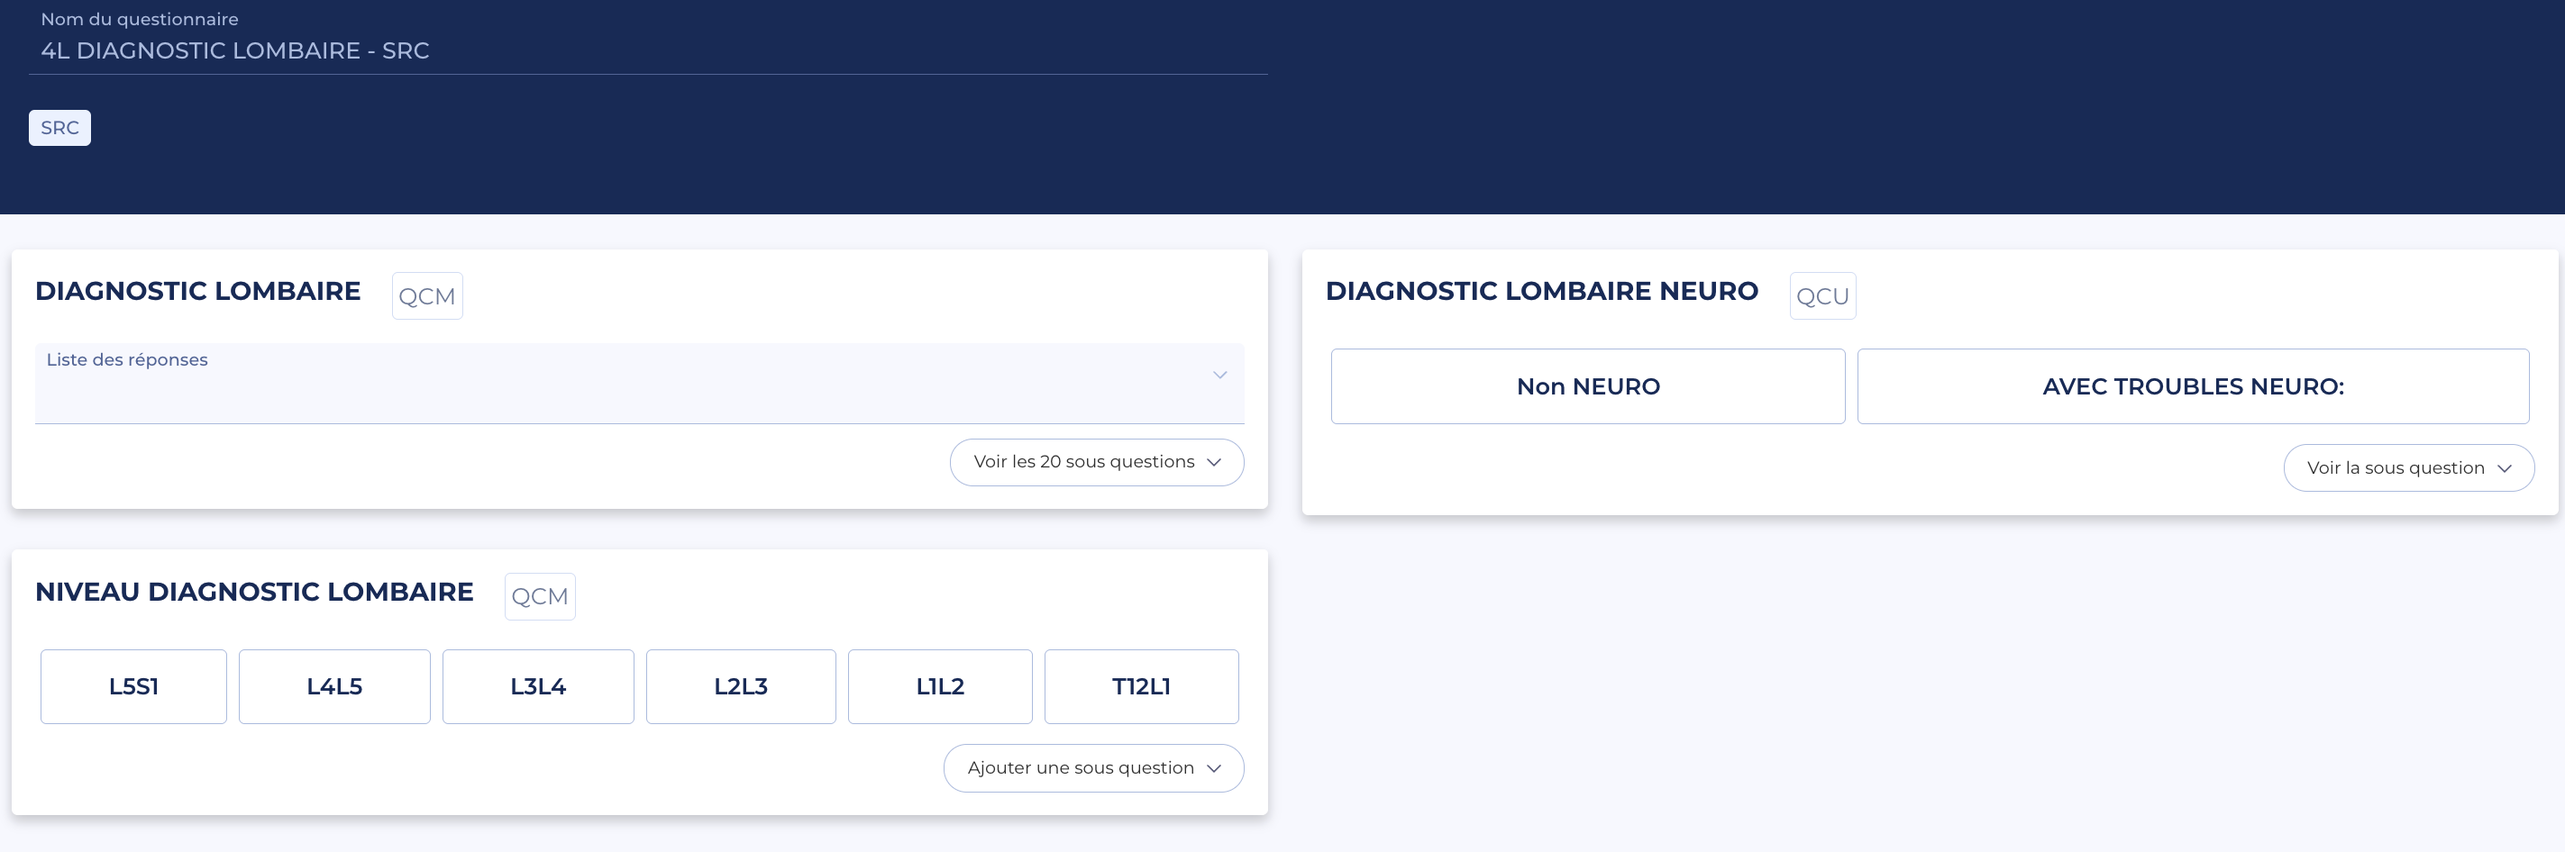
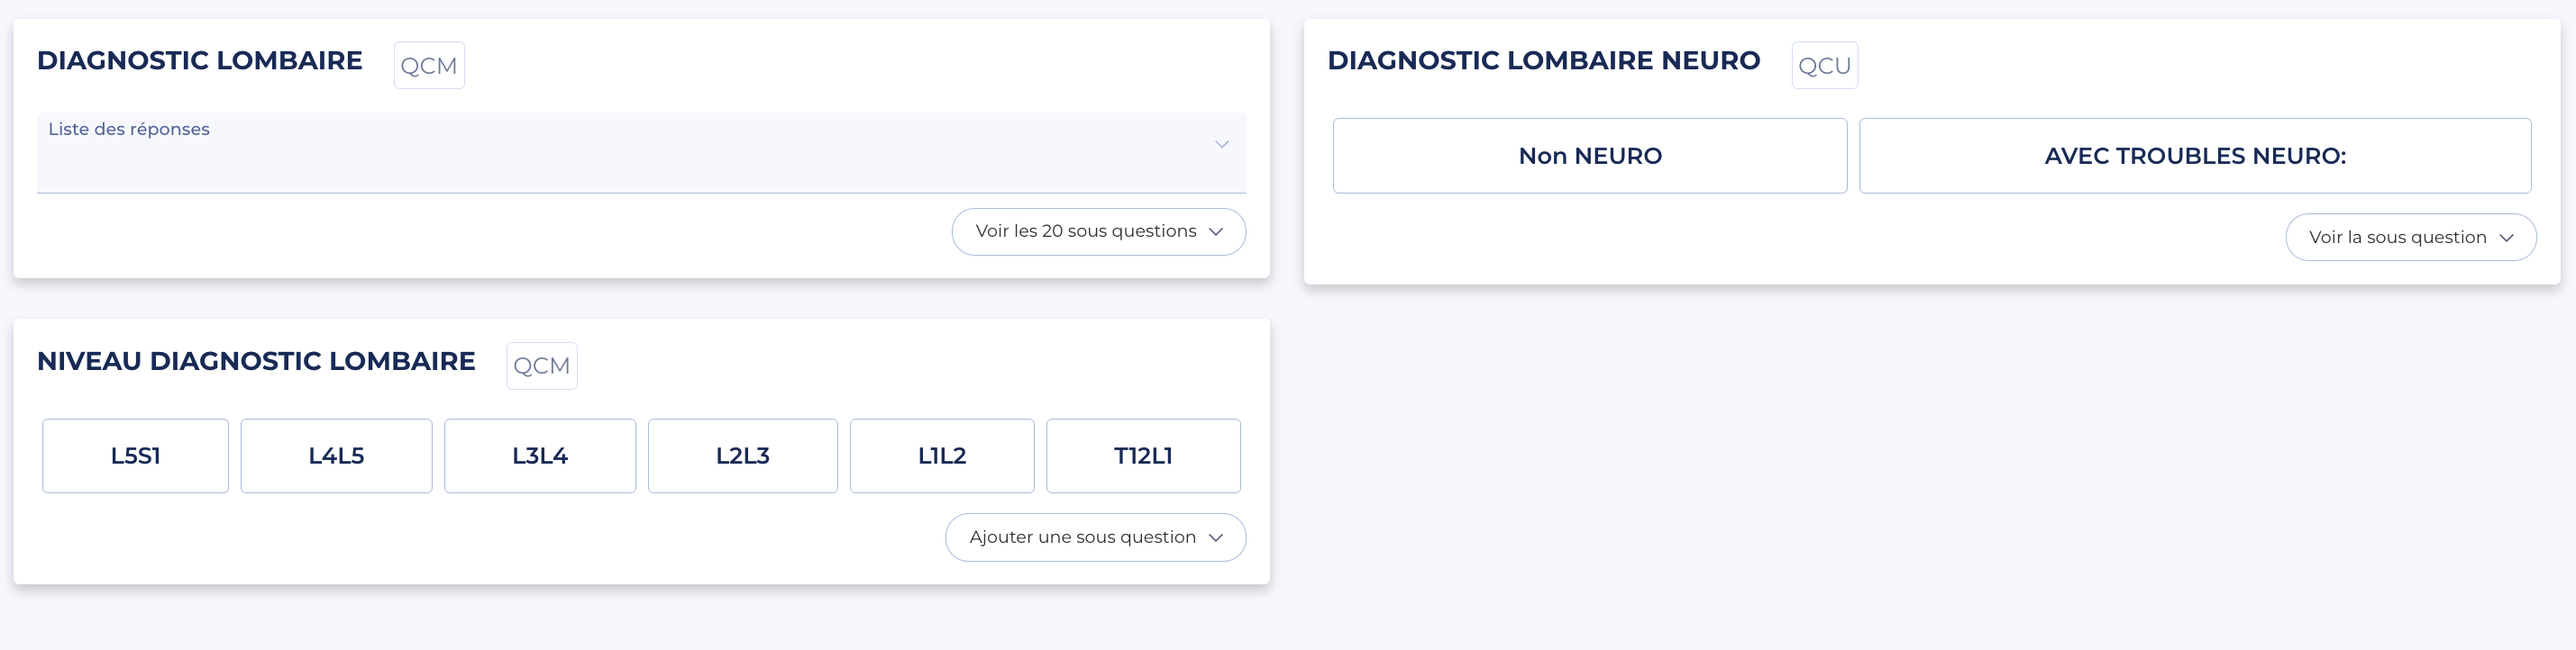
5L final + 4L photo refresh — déploiement Pages
- 5L : Axe 3 matériel — retrait du préfixe « Dispositif : » pour clarté
- 5L : photo du haut recomposée à partir de 3 screenshots dédiés (abord_materiel, region_operee, type_sejour) → CHIRURGIE+MATERIEL en bande puis Chir région opérée + TYPE DE SÉJOUR côte à côte
- 5L TL : refonte sections axes — miroir du PDF (POST/ANT/LAT en 3 cols, échelles + ÉTAGE SUP/INF, axe 3 pleine largeur + 4/5 côte à côte) + suppression du tag « Suite »
- 4L : photo du haut remplacée par 4L_part1.png pleine largeur (DIAGNOSTIC LOMBAIRE + NEURO + NIVEAU)
- QA 4L + 5L : 100/100

diff --git a/docs/5L/index.html b/docs/5L/index.html
@@ -231,27 +231,27 @@
     margin-bottom: clamp(6px, 1.2vh, 12px);
   }
 
-  /* AXE 1 — voies hiérarchisées */
+  /* AXE 1 — voies hiérarchisées (3 colonnes PDF-like) */
   .voies-tl {
     display: grid;
-    grid-template-columns: 1fr;
-    gap: clamp(8px, 1.4vh, 12px);
+    grid-template-columns: 1.4fr 1fr 1fr;
+    gap: clamp(6px, 1.4vw, 12px);
     margin-top: clamp(6px, 1vh, 10px);
   }
   .voie-card-tl {
     background: var(--bg);
     border-radius: 8px;
-    padding: clamp(10px, 1.5vh, 14px) clamp(12px, 2.8vw, 20px);
+    padding: clamp(8px, 1.2vh, 12px) clamp(8px, 1.8vw, 14px);
     border: 1px solid rgba(0, 212, 180, 0.20);
   }
   .voie-name-tl {
     font-family: var(--font-display);
-    font-size: clamp(40px, 10vw, 80px);
+    font-size: clamp(26px, 6vw, 52px);
     line-height: 0.9;
     color: var(--teal);
-    letter-spacing: 2px;
-    margin-bottom: clamp(4px, 0.8vh, 8px);
-    padding-bottom: clamp(4px, 0.8vh, 8px);
+    letter-spacing: 1.5px;
+    margin-bottom: clamp(4px, 0.6vh, 6px);
+    padding-bottom: clamp(3px, 0.6vh, 6px);
     border-bottom: 2px solid var(--teal);
   }
   .voie-items-tl {
@@ -259,42 +259,65 @@
     margin: 0; padding: 0;
   }
   .voie-items-tl li {
-    font-size: clamp(13px, 2.8vw, 22px);
+    font-family: var(--font-mono);
+    font-size: clamp(10px, 2.1vw, 17px);
     color: var(--white);
-    padding: clamp(2px, 0.4vh, 4px) 0;
-    line-height: 1.3;
+    padding: clamp(1px, 0.3vh, 3px) 0;
+    line-height: 1.25;
   }
 
-  /* AXE 2 — schéma + items */
+  /* AXE 2 — 2 échelles + rachis centré (miroir PDF) */
   .rachis-tl {
     display: grid;
-    grid-template-columns: clamp(120px, 22vw, 200px) 1fr;
-    gap: clamp(12px, 3vw, 24px);
-    align-items: center;
+    grid-template-columns: 1fr auto 1fr;
+    gap: clamp(8px, 2vw, 18px);
+    align-items: stretch;
     margin-top: clamp(4px, 0.8vh, 8px);
   }
-  .rachis-svg-tl {
-    width: 100%; height: auto;
-    max-height: clamp(220px, 36vh, 360px);
+  .echelle-tl {
+    display: flex; flex-direction: column;
+    justify-content: space-between;
+    padding: clamp(4px, 0.8vh, 8px) 0;
   }
-  .rachis-items-tl {
-    list-style: none;
-    margin: 0; padding: 0;
+  .echelle-tl ul {
+    list-style: none; margin: 0; padding: 0;
+    display: flex; flex-direction: column;
+    justify-content: space-between;
+    flex: 1;
   }
-  .rachis-items-tl li {
+  .echelle-tl li {
     font-family: var(--font-mono);
-    font-size: clamp(13px, 2.8vw, 22px);
+    font-size: clamp(12px, 2.4vw, 20px);
     color: var(--white);
-    padding: clamp(6px, 1vh, 10px) 0;
-    border-bottom: 1px dashed rgba(255,255,255,0.10);
-    line-height: 1.3;
+    line-height: 1.1;
+    padding: clamp(1px, 0.2vh, 2px) 0;
   }
-  .rachis-items-tl li:last-child { border-bottom: 0; }
+  .echelle-tl.left li { text-align: right; padding-right: clamp(4px, 1vw, 10px); }
+  .echelle-tl.right li { text-align: left; padding-left: clamp(4px, 1vw, 10px); }
+  .rachis-center-tl {
+    display: flex; flex-direction: column;
+    align-items: center; justify-content: space-between;
+    gap: clamp(2px, 0.4vh, 6px);
+  }
+  .rachis-label-tl {
+    font-family: var(--font-display);
+    font-size: clamp(18px, 4.5vw, 36px);
+    color: var(--teal);
+    letter-spacing: 1.5px;
+    line-height: 1;
+    text-align: center;
+  }
+  .rachis-svg-tl {
+    width: clamp(100px, 22vw, 180px);
+    height: auto;
+    max-height: clamp(180px, 30vh, 280px);
+  }
 
-  /* AXES 3,4,5 — items inline */
+  /* AXES 3/4/5 — items inline */
   .axe-items-tl {
     list-style: none;
     margin: 0; padding: 0;
+    display: flex; flex-wrap: wrap; gap: 0 clamp(8px, 2.5vw, 20px);
   }
   .axe-items-tl li {
     font-size: clamp(14px, 3vw, 24px);
@@ -307,6 +330,14 @@
     color: var(--teal);
     font-weight: 700;
   }
+
+  /* AXES 4 + 5 côte à côte */
+  .axes-row-tl {
+    display: grid;
+    grid-template-columns: 1fr 1fr;
+    gap: clamp(8px, 1.4vh, 14px);
+  }
+  .axes-row-tl .axe-tl { margin-bottom: 0; }
 
   /* VALEUR + FOOTER */
   .section-valeur { padding: 8vh 6vw 4vh; }
@@ -483,7 +514,19 @@
   <div class="axe-tl haute">
     <div class="axe-title-tl">Axe 2 — Niveaux instrumentés</div>
     <div class="rachis-tl">
-      <svg class="rachis-svg-tl" viewBox="0 0 100 168" xmlns="http://www.w3.org/2000/svg">
+      <div class="echelle-tl left">
+        <ul>
+            <li>T12</li>
+            <li>L1</li>
+            <li>L2</li>
+            <li>L3</li>
+            <li>L4</li>
+            <li>L5</li>
+        </ul>
+      </div>
+      <div class="rachis-center-tl">
+        <div class="rachis-label-tl">Étage sup</div>
+        <svg class="rachis-svg-tl" viewBox="0 0 100 168" xmlns="http://www.w3.org/2000/svg">
         <defs>
           <linearGradient id="vert-tl" x1="0" y1="0" x2="0" y2="1">
             <stop offset="0%" stop-color="#F0EDE8"/>
@@ -539,8 +582,19 @@
         <path d="M 68 140 Q 88 144 86 156 L 72 156 Q 72 150 68 144 Z"
               fill="url(#vert-tl)" stroke="#00D4B4" stroke-width="0.8"/>
       </svg>
-      <ul class="rachis-items-tl">
-<li>POST · sup L5→T12 / inf S1→L1 ou Bassin</li><li>LAT · sup L1→L5 / inf L2→S1 ou Iliaque</li><li>ANT · L5S1 → L1L2</li>      </ul>
+        <div class="rachis-label-tl">Étage inf</div>
+      </div>
+      <div class="echelle-tl right">
+        <ul>
+            <li>L1</li>
+            <li>L2</li>
+            <li>L3</li>
+            <li>L4</li>
+            <li>L5</li>
+            <li>S1</li>
+            <li>Bassin</li>
+        </ul>
+      </div>
     </div>
   </div>
 </section>
@@ -548,24 +602,26 @@
 
 <!-- SECTION 4 — Axes 3, 4, 5 -->
 <section data-snap="true" class="section-axes">
-  <div class="section-tag">Suite</div>
   <h2 class="section-title-tl">Matériel · antécédent · séjour</h2>
 
-    <div class="axe-tl normale">
-      <div class="axe-title-tl">Axe 3 — Matériel</div>
-      <ul class="axe-items-tl">
-<li>Dispositif : vis · cages · plaques · prothèses · dispositif</li><li>Laboratoire</li>      </ul>
-    </div>
-    <div class="axe-tl haute">
-      <div class="axe-title-tl">Axe 4 — Antécédent de chir</div>
-      <ul class="axe-items-tl">
-<li>Région opérée · niveau · année</li>      </ul>
-    </div>
-    <div class="axe-tl haute">
-      <div class="axe-title-tl">Axe 5 — Séjour</div>
-      <ul class="axe-items-tl">
-<li>Date d&#39;intervention</li><li>Type de séjour : hospitalisation traditionnelle / ambulatoire</li>      </ul>
-    </div>
+  <div class="axe-tl normale">
+    <div class="axe-title-tl">Axe 3 — Matériel</div>
+    <ul class="axe-items-tl">
+<li>vis · cages · plaques · prothèses · dispositif</li><li>Laboratoire</li>    </ul>
+  </div>
+
+  <div class="axes-row-tl">
+      <div class="axe-tl haute">
+        <div class="axe-title-tl">Axe 4 — Antécédent de chir</div>
+        <ul class="axe-items-tl">
+<li>Région opérée · niveau · année</li>        </ul>
+      </div>
+      <div class="axe-tl haute">
+        <div class="axe-title-tl">Axe 5 — Séjour</div>
+        <ul class="axe-items-tl">
+<li>Date d&#39;intervention</li><li>Type de séjour : hospitalisation traditionnelle / ambulatoire</li>        </ul>
+      </div>
+  </div>
 </section>
 
 

diff --git a/docs/index.html b/docs/index.html
@@ -291,13 +291,13 @@
       <div class="card-tag">Questionnaire</div>
       <div class="card-id">4L</div>
       <div class="card-titre">Diagnostic lombaire</div>
-      <div class="card-meta">#02/12 · v9</div>
+      <div class="card-meta">#02/12 · v10</div>
     </a>
     <a class="card" href="./5L/">
       <div class="card-tag">Questionnaire</div>
       <div class="card-id">5L</div>
       <div class="card-titre">Programmation chirurgie lombaire</div>
-      <div class="card-meta">#03/12 · v21</div>
+      <div class="card-meta">#03/12 · v25</div>
     </a>
     </section>
 
